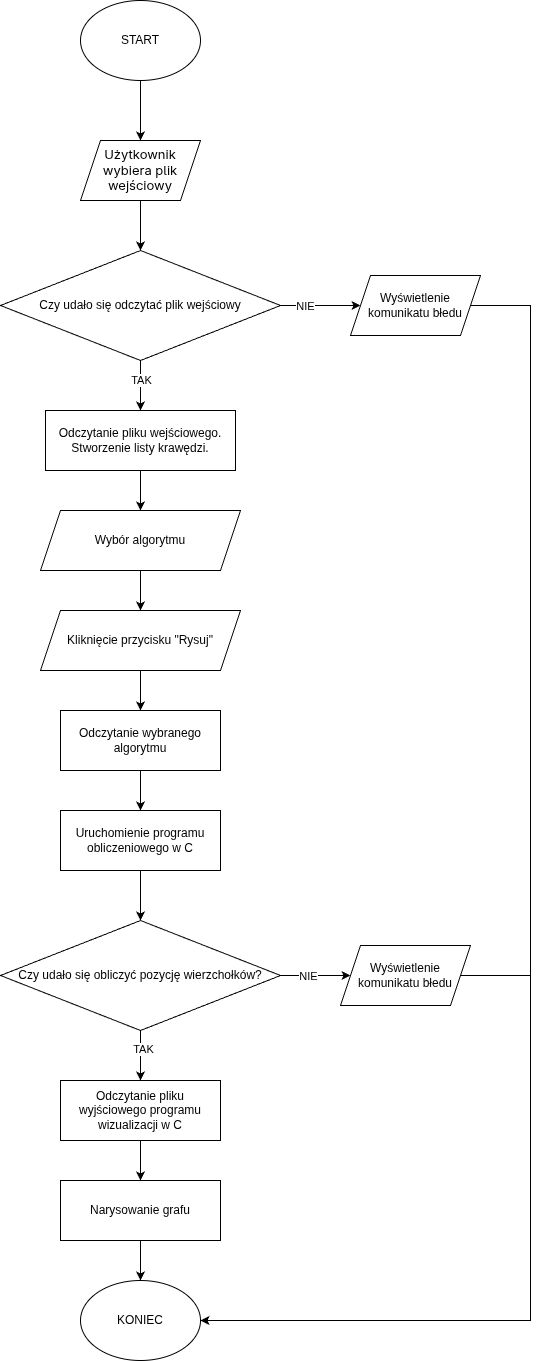
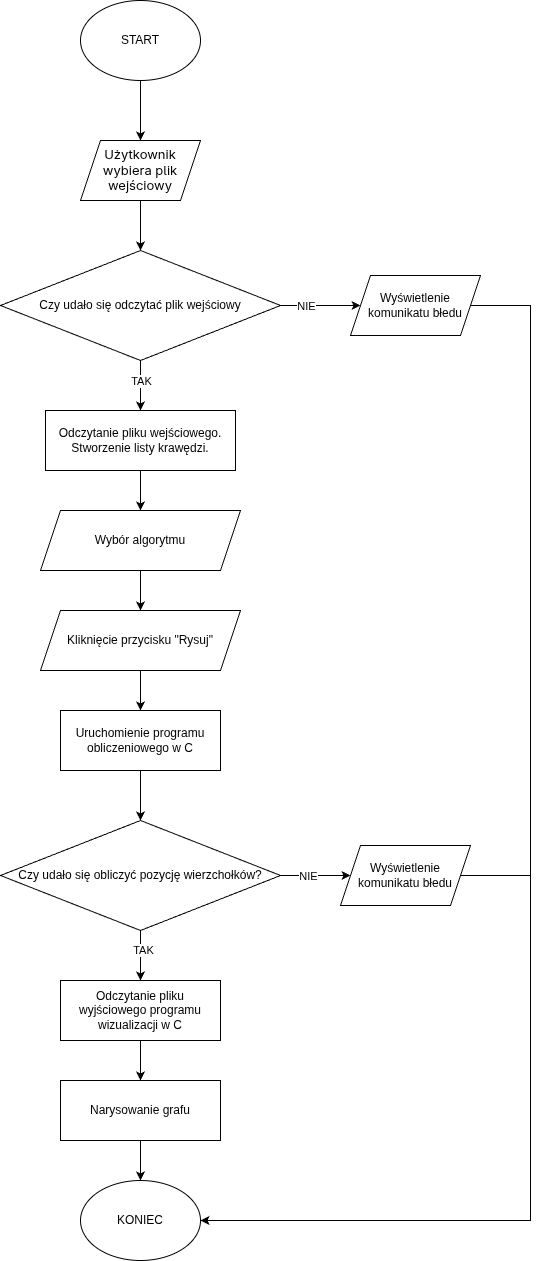
Dodanie enum Algorithm zamiast zhardcodowanych wartości; Usunięcie zbędnego elementu schematu blokowego

diff --git a/src/BackEnd.java b/src/BackEnd.java
@@ -10,7 +10,7 @@ public class BackEnd {
 
     GraphVisualizerUI ui;
 
-    String selectedAlgorithm = "Fruchterman-Reingold";
+    Algorithm selectedAlgorithm = Algorithm.FRUCHTERMAN_REINGOLD;
 
     private File inputFile;
     private File outputFile;
@@ -30,14 +30,6 @@ public class BackEnd {
     }
 
     public void  launchC(){
-        String alg = "";
-
-        if("Fruchterman-Reingold".equals(selectedAlgorithm)){
-            alg = "FRE";
-        }
-        else if("Triangulacja".equals(selectedAlgorithm)){
-            alg = "TRI";
-        }
 
         try{
             if (inputFile == null) {
@@ -47,7 +39,7 @@ public class BackEnd {
             }
             String executablePath = System.getProperty("user.dir") + File.separator + "src_c" + File.separator + "a.out";
             ProcessBuilder pb =
-                new ProcessBuilder(executablePath,"-i", inputFile.getAbsolutePath(), "-t", "TXT", "-o", outputFile.getAbsolutePath(), "-a", alg);
+                new ProcessBuilder(executablePath,"-i", inputFile.getAbsolutePath(), "-t", "TXT", "-o", outputFile.getAbsolutePath(), "-a", selectedAlgorithm.getAbbreviation());
             pb.redirectErrorStream(true);
             Process process = pb.start();
 

diff --git a/src/SidebarPanel.java b/src/SidebarPanel.java
@@ -31,12 +31,12 @@ public class SidebarPanel extends JPanel {
         addSectionTitle("Parametry");
         addPlainText("Algorytm");
 
-        JComboBox<String> algorithmsChoice = new JComboBox<>(new String[] { "Fruchterman-Reingold", "Triangulacja" });
+        JComboBox<Algorithm> algorithmsChoice = new JComboBox<>(Algorithm.values());
         if(ui.engine.selectedAlgorithm != null) {
             algorithmsChoice.setSelectedItem(ui.engine.selectedAlgorithm);
         }
         algorithmsChoice.addActionListener(e -> {
-            ui.engine.selectedAlgorithm = (String) algorithmsChoice.getSelectedItem();
+            ui.engine.selectedAlgorithm = (Algorithm) algorithmsChoice.getSelectedItem();
         });
 
         algorithmsChoice.setAlignmentX(Component.CENTER_ALIGNMENT);

diff --git a/src/Algorithm.java b/src/Algorithm.java
@@ -1,0 +1,27 @@
+public enum Algorithm {
+    FRUCHTERMAN_REINGOLD("Fruchterman-Reingold", "FRE"),
+    TRIANGULATION("Triangulacja", "TRI");
+
+    private final String displayName; // Pełna nazwa
+    private final String abbreviation; // Skrót
+
+    Algorithm(String displayName, String abbreviation) {
+        this.displayName = displayName;
+        this.abbreviation = abbreviation;
+    }
+
+    // Pełna nazwa
+    public String getDisplayName() {
+        return displayName;
+    }
+
+    // Skrót
+    public String getAbbreviation() {
+        return abbreviation;
+    }
+
+    @Override
+    public String toString() {
+        return displayName;
+    }
+}
